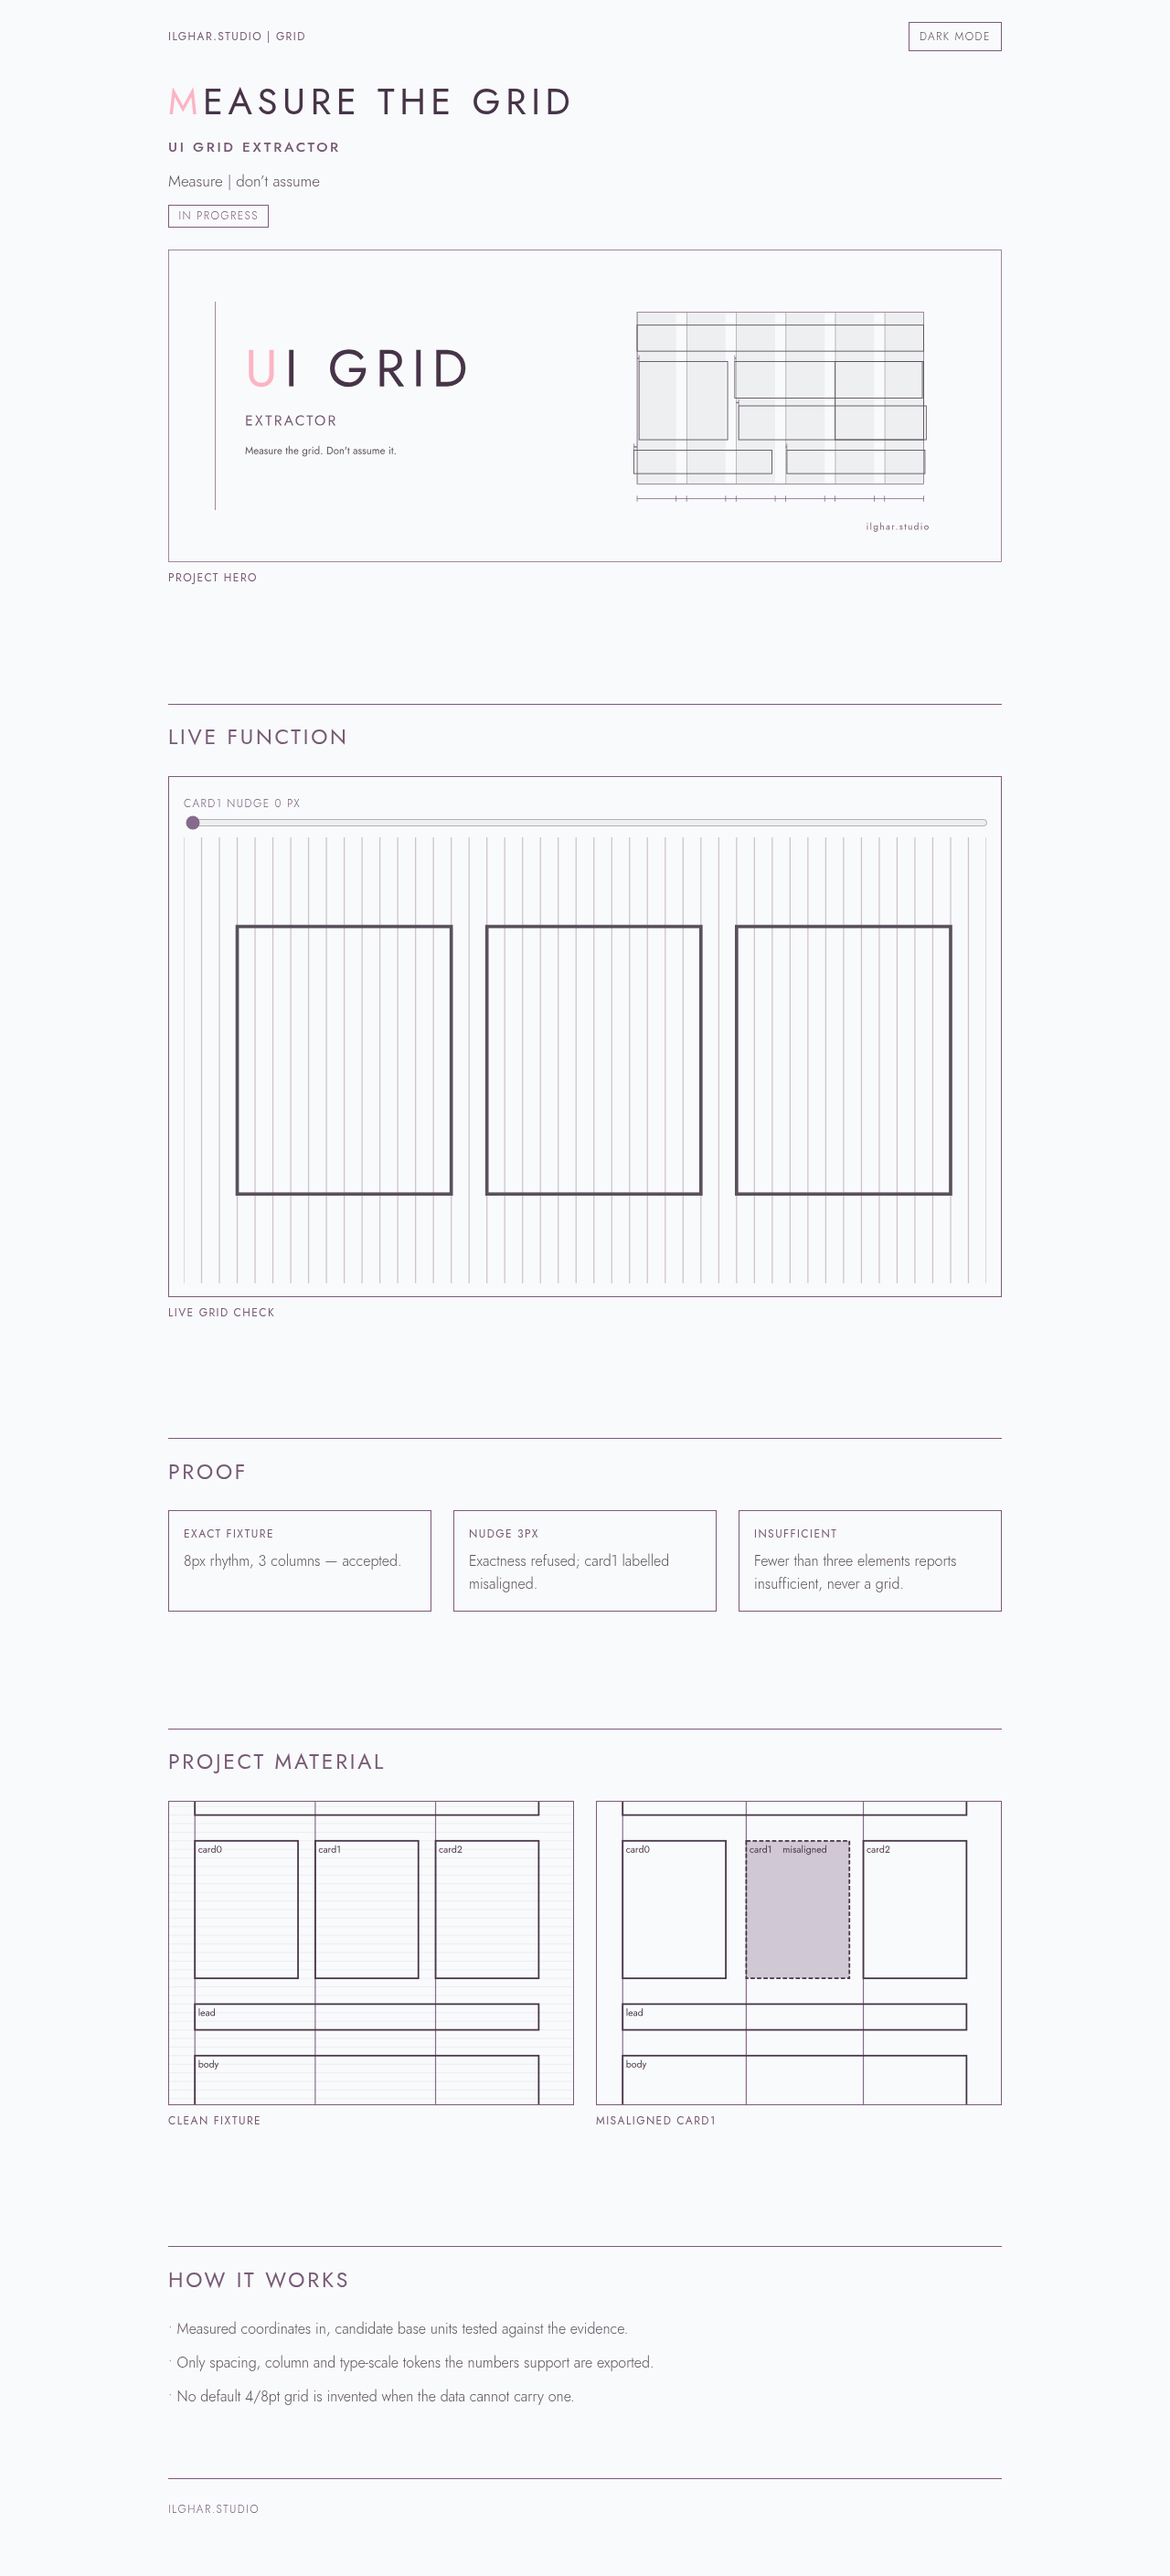
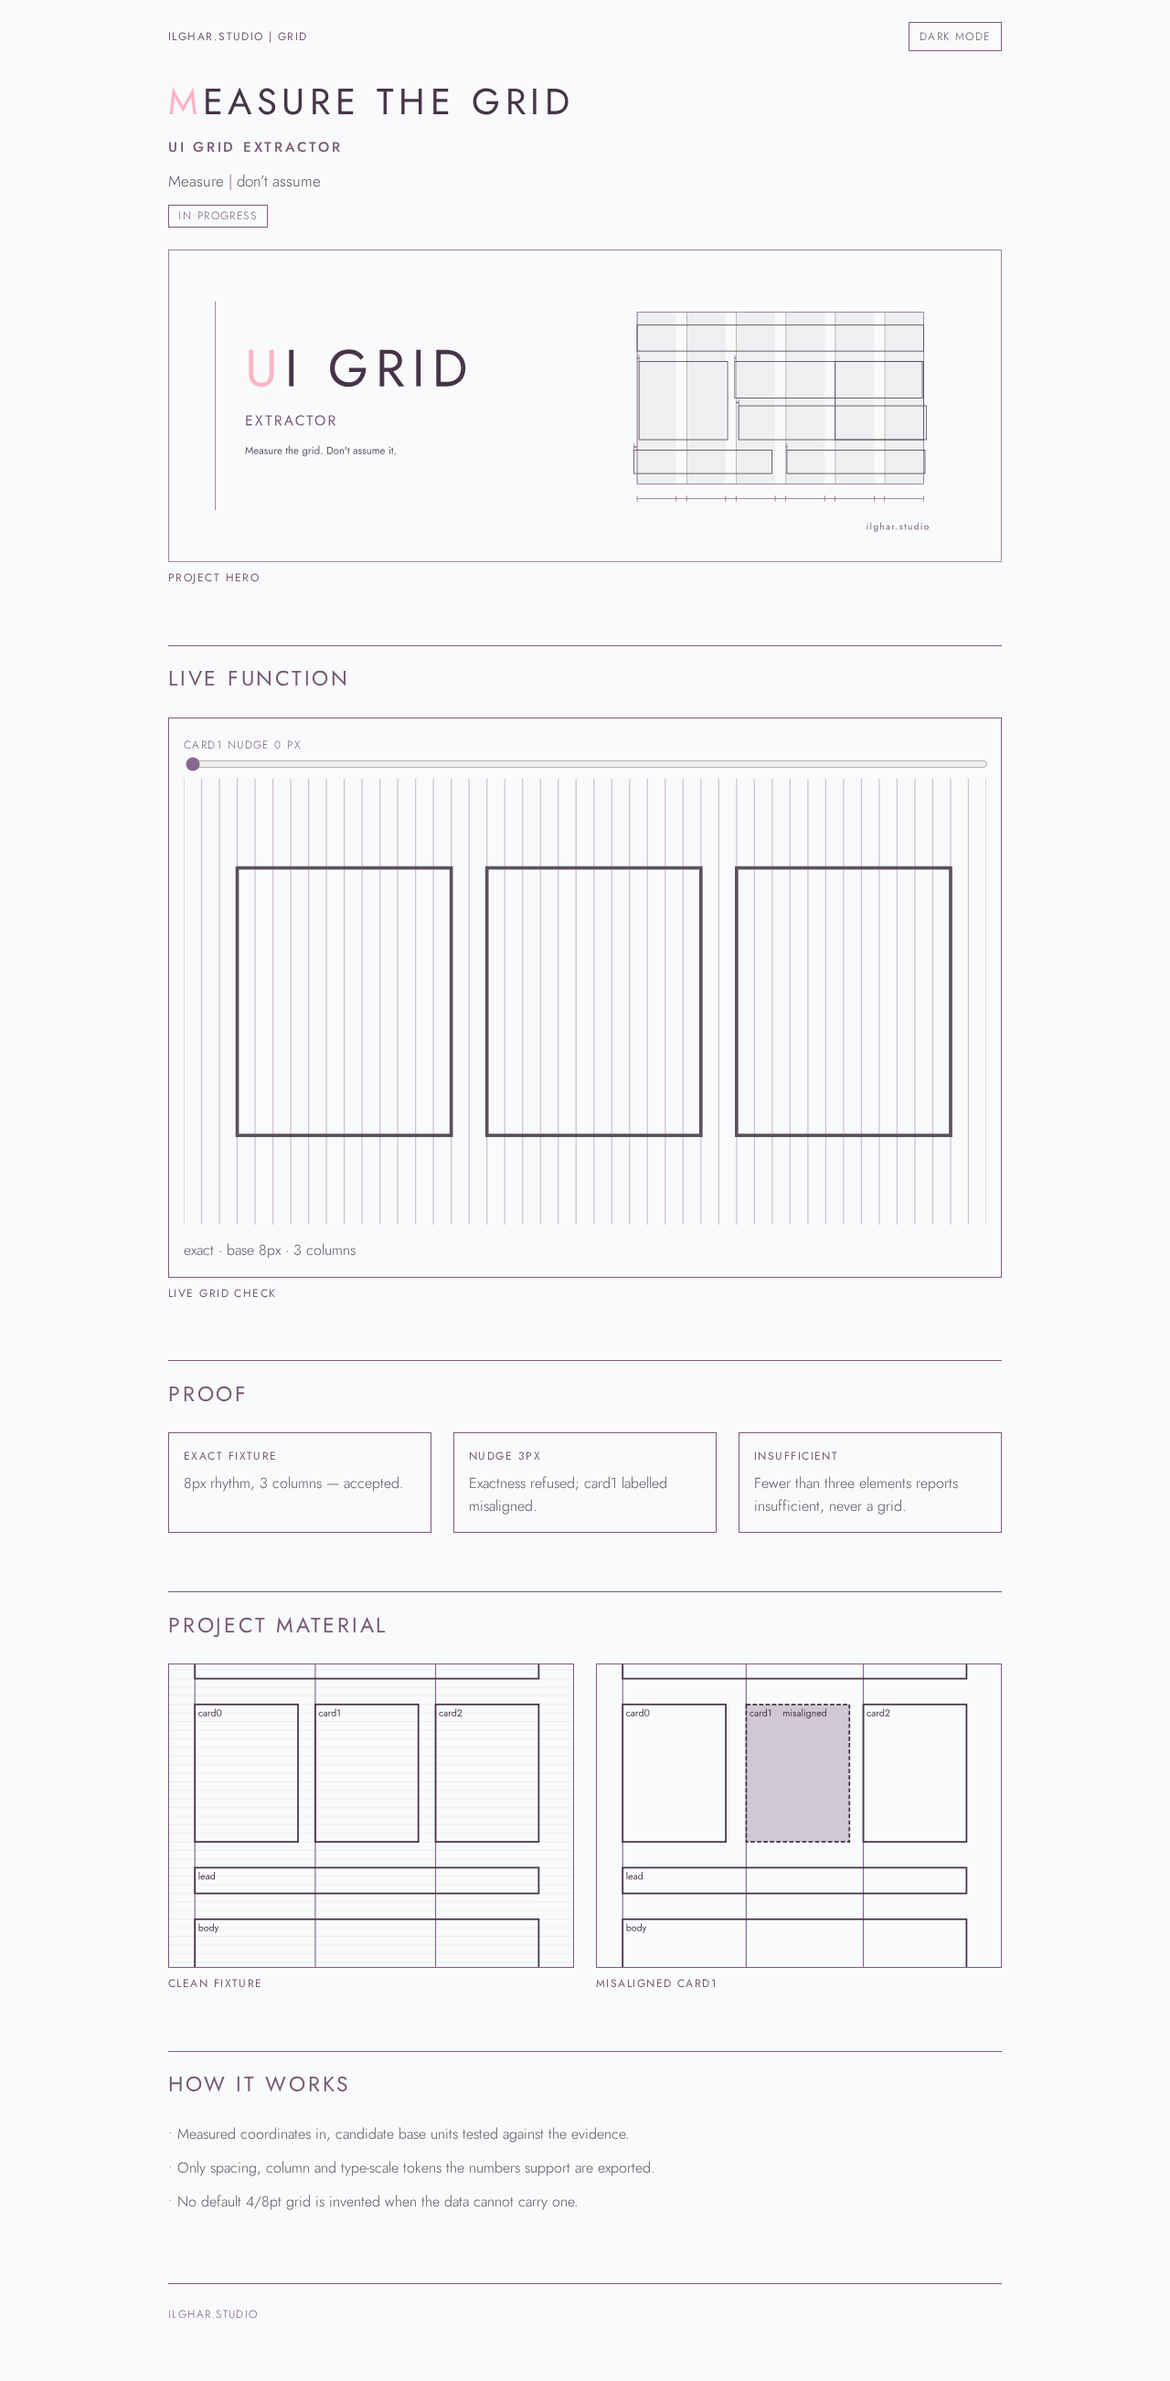
website-ops: 64px section rhythm, live frames content-height, Critiquito blockers
- Drop h2 top margin that doubled the section gap after hero
- Live demos: .frame.live content-height (keep r1610 boards / r83 hero)
- signature-typography: one 12-span live frame, soft neumorphic with palette
  shadows only, measured text ≥4.5:1, interactive 1px #7d5a7c hairline,
  Project material from f1/f2
- Signature-animation: Proof + Project material + How it works; tighter live
- Reshoot pages-1280/390 light+dark

diff --git a/site/pages-shell.css b/site/pages-shell.css
@@ -63,8 +63,7 @@ figcaption,.cap{
   margin-top:8px;font-size:12px;font-weight:400;letter-spacing:.12em;text-transform:uppercase;color:var(--label);
 }
 h2{font-weight:400;font-size:23px;letter-spacing:.12em;text-transform:uppercase;color:var(--label);
-  border-top:1px solid var(--line);padding-top:.8em;margin:64px 0 24px}
-@media (max-width:600px){h2{margin-top:48px}}
+  border-top:1px solid var(--line);padding-top:.8em;margin:0 0 24px}
 .card{border:1px solid var(--line);border-radius:0;box-shadow:none;background:var(--bg);padding:16px;margin:0}
 .card h3{font-size:12px;font-weight:400;letter-spacing:.12em;text-transform:uppercase;color:var(--label);margin:0 0 8px}
 .card p{margin:0;font-size:16px;font-weight:300;max-width:64ch}
@@ -83,3 +82,40 @@ footer{margin-top:64px;padding-top:24px;border-top:1px solid var(--line);font-si
 .hero-art img{position:absolute;inset:0;display:block;width:100%!important;height:100%!important;max-height:none;object-fit:fill;border:0;border-radius:0}
 figure.span12 > .hero-art, figure.hero > .hero-art{width:100%}
 
+
+/* section rhythm — exactly 64px (48px ≤600); no extra h2 top margin */
+section{margin-top:64px;margin-bottom:0}
+@media (max-width:600px){section{margin-top:48px}}
+figure.span12{margin:0}
+
+/* Live demo frames: full width, height follows content — no forced 16:10.
+   Hero .hero-art stays 8:3; boards/cards keep .r1610 / .r43. */
+section[aria-label="Live function"] .frame,
+.frame.live,
+#app-frame{
+  aspect-ratio:auto;
+  height:auto;
+  min-height:0;
+}
+section[aria-label="Live function"] .frame > *,
+.frame.live > *,
+#app-frame > *{
+  width:100%;
+  height:auto;
+  max-height:none;
+  object-fit:unset;
+  position:static;
+}
+section[aria-label="Live function"] .frame iframe,
+.frame.live iframe{
+  display:block;
+  width:100%;
+  height:auto;
+  min-height:480px;
+  border:0;
+  position:static;
+}
+@media (max-width:600px){
+  section[aria-label="Live function"] .frame iframe,
+  .frame.live iframe{min-height:520px}
+}

diff --git a/site/index.html b/site/index.html
@@ -41,7 +41,7 @@ input[type=range]{width:100%;accent-color:var(--mauve-em)}
   <section class="span12" aria-label="Live function">
     <h2>Live function</h2>
     <figure>
-      <div class="frame r1610">
+      <div class="frame live">
         <div class="live-pad">
           <label for="nudge">card1 nudge <span id="nudgeO">0</span> px</label>
           <input id="nudge" type="range" min="0" max="8" step="1" value="0">
